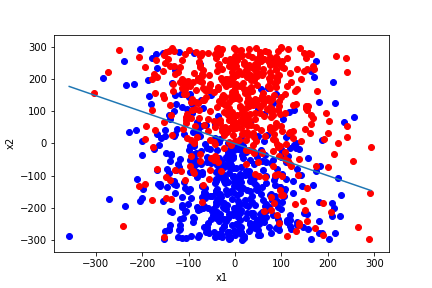
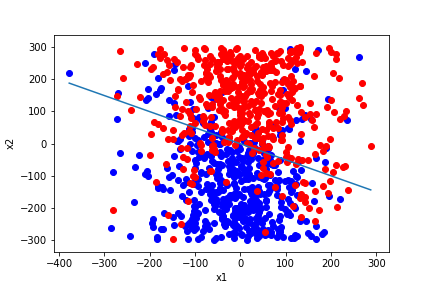
bug fixed + changes in main

diff --git a/BivariateClassification_MLexample/code/Main.py b/BivariateClassification_MLexample/code/Main.py
@@ -18,6 +18,7 @@ from sklearn.linear_model import LogisticRegression
 from sklearn.model_selection import RandomizedSearchCV
 from sklearn.svm import LinearSVC
 from sklearn.neural_network import MLPClassifier
+from sklearn.metrics import accuracy_score
 
 #import matplotlib.pyplot as plt
 
@@ -25,16 +26,82 @@ from sklearn.neural_network import MLPClassifier
 log = logging.getLogger(__name__)
 logging.basicConfig(level=logging.INFO,format='%(name)s - %(levelname)s - %(message)s')
 
+# --------------------- utilities --------------------------------- # 
+
+def model_test_validate(model,X_train,y_train,X_test,y_test):
+    """
+    
+    """
+    # fit model
+    model.fit(X_train,y_train)
+    # make predictions
+    y_test_pred = model.predict(X_test)
+    # get the MSE and MAE
+    print(accuracy_score(y_test,y_test_pred))
+    # plt results
+    _,ax = plt.subplots()
+    ax.plot(   X_test[np.where(y_test == y_test_pred),0],
+                  X_test[np.where(y_test == y_test_pred),1],
+                  ".",color = "green")
+    ax.plot(   X_test[np.where(y_test != y_test_pred),0],
+                  X_test[np.where(y_test != y_test_pred),1],
+                  ".",color = "red")
+    ax.set_xlabel("x1") ; ax.set_ylabel("x2")
+
 # --------------------- configuration ------------------------------ # 
 
 # set the sample size
-size = 1000
+size = 3000
 # set the dgp
-dgp = "sigmoid"
+dgp = "quadratic"
 # set the parameters
 true_parameters = {"alpha" : 2, "beta1" : 2, "beta2" : 4} 
 # set the test size as a proportion 
 test_size = 0.2
+
+# ------------------- specify estimators/models ----------------------------- # 
+
+models = [
+        # first model - Linear SVC with standard scaler
+        RandomizedSearchCV(
+                make_pipeline(StandardScaler(),LinearSVC(max_iter = 500)),
+                param_distributions = {'linearsvc__C': ss.expon(scale=100)},
+                n_iter = 10,
+                cv = 5,
+                n_jobs = -1),            
+        
+        #  second model - Logistic regression with standard scaler
+        RandomizedSearchCV(
+                make_pipeline(StandardScaler(),LogisticRegression(solver = 'lbfgs',max_iter = 500)),
+                param_distributions = {'logisticregression__C': ss.expon(scale=100)},
+                n_iter = 10,
+                cv = 5,
+                n_jobs = -1),
+    
+        # third model - MLP classifier with standard scaler
+        RandomizedSearchCV(
+                make_pipeline(StandardScaler(),MLPClassifier()),
+                param_distributions = {'mlpclassifier__alpha': ss.expon(scale=100),
+                                       'mlpclassifier__hidden_layer_sizes': [(50,50,50), (50,100,50), (100,)],
+                                       'mlpclassifier__activation': ['tanh', 'relu'],
+                                       'mlpclassifier__solver': ['sgd', 'adam'],
+                                       'mlpclassifier__learning_rate': ['constant','adaptive'],},
+                n_iter = 20,
+                cv = 5,
+                n_jobs = -1),
+                
+        # fourth model - MLP classifier                           
+        RandomizedSearchCV(
+                MLPClassifier(),
+                param_distributions = {'alpha': ss.expon(scale=100),
+                                       'hidden_layer_sizes': [(50,50,50), (50,100,50), (100,)],
+                                       'activation': ['tanh', 'relu'],
+                                       'solver': ['sgd', 'adam'],
+                                       'learning_rate': ['constant','adaptive'],},
+                n_iter = 10,
+                cv = 5,
+                n_jobs = -1)
+        ]
 
 
 # -------------------- generata synthetic data ---------------------- # 
@@ -47,17 +114,14 @@ data = synthetic_data_generator(size = size,dgp = dgp,parameters = true_paramete
 # get the splin between train and test data
 X_train, X_test, y_train, y_test = train_test_split(data[:,1:],data[:,0],test_size = test_size)
 log.info("X train shape %s",X_train.shape) ; log.info("X test shape %s",X_test.shape)
+log.info("y train shape %s",y_train.shape) ; log.info("y test shape %s",y_test.shape)
 
-# ------------------- specify estimators/models ----------------------------- # 
 
-models = [RandomizedSearchCV(make_pipeline(StandardScaler(),LinearSVC()),param_distributions = {'linearsvc__C': ss.expon(scale=100)},n_iter = 10),
-        RandomizedSearchCV(make_pipeline(StandardScaler(),LogisticRegression()),param_distributions = {'logisticregression__C': ss.expon(scale=100)},n_iter = 10),
-        RandomizedSearchCV(make_pipeline(StandardScaler(),MLPClassifier(hidden_layer_sizes = 2)),param_distributions = {'mlpclassifier__alpha': ss.expon(scale=100)},n_iter = 10),
-        RandomizedSearchCV(MLPClassifier(hidden_layer_sizes = 2),param_distributions = {'alpha': ss.expon(scale=100)},n_iter = 10)]
-          
+# ------------------- evaluate models ----------------------------- # 
+
 for model in models:
-    #print(model.get_params().keys())
-    model.fit(X_train,y_train)
-    print(model.best_score_)
-    print(model.best_params_)
+    # evaluate model and plot results
+    model_test_validate(model,X_train,y_train,X_test,y_test)
+
+    
     

diff --git a/BivariateClassification_MLexample/code/SynthetData_Gen.py b/BivariateClassification_MLexample/code/SynthetData_Gen.py
@@ -75,6 +75,14 @@ def synthetic_data_generator(size,dgp,parameters,plots = True):
         threshold = values.mean()
         y = (values >= threshold).astype(int)
         
+    elif dgp == "easy": 
+        # set threshold 
+        threshold = 0.5
+        # case 1 use a simple logistic
+        true_values = sigmoid(alpha + beta1 * x1 + beta2 * x2)
+        values = sigmoid(alpha + beta1 * x1 + beta2 * x2 + np.random.normal(loc = 0, scale = 0.01))
+        y = (values >= threshold).astype(int)
+        
     elif dgp == "noise":
         # purely random y
         y = ss.bernoulli.rvs(p = 0.5, size = size)
@@ -101,7 +109,7 @@ def synthetic_data_generator(size,dgp,parameters,plots = True):
     # -------------------------- return the data ------------------------------------ # 
     
     # get the data in a single array
-    data = np.array([y,x1,x1]).T
+    data = np.array([y,x1,x2]).T
     
     return data
     
